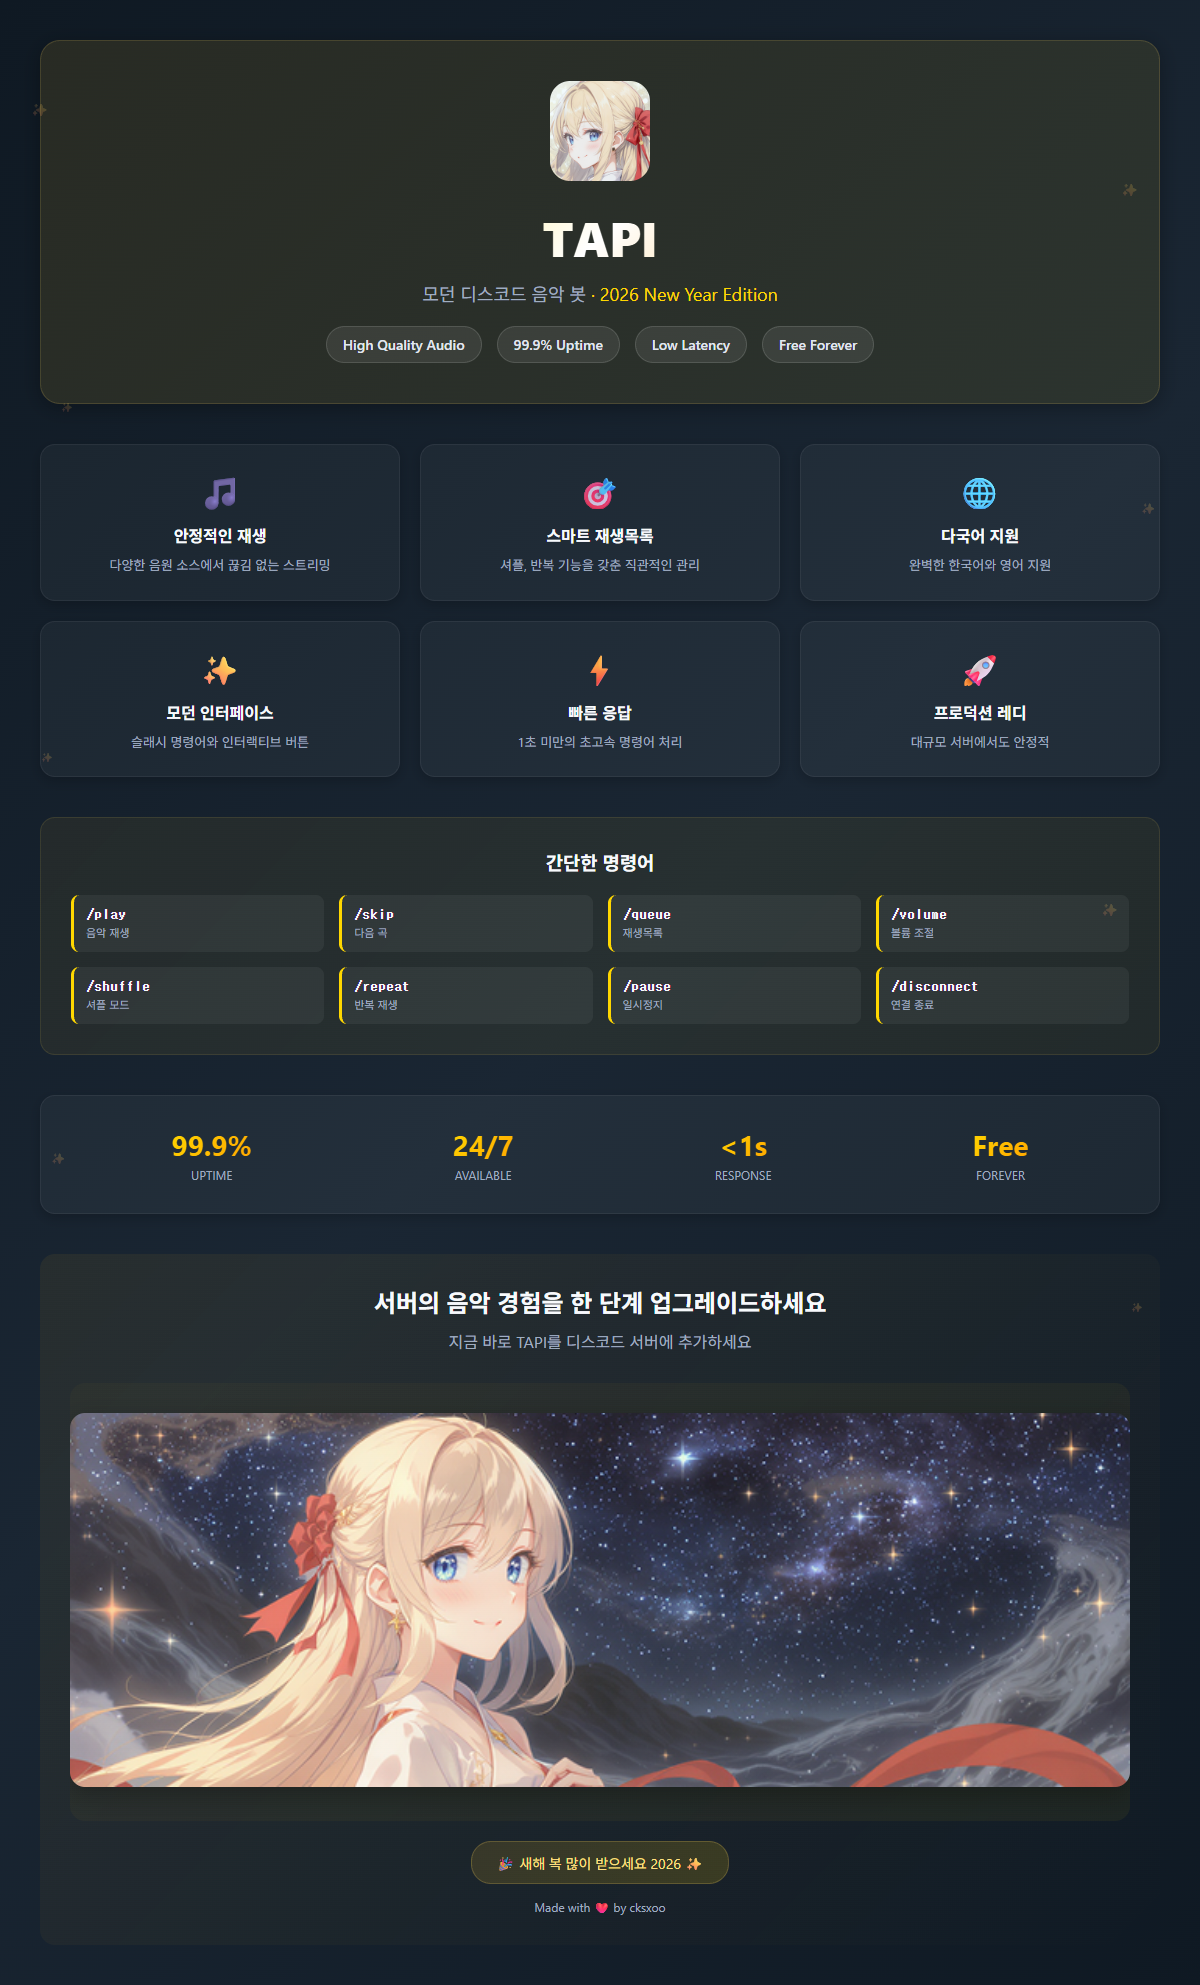
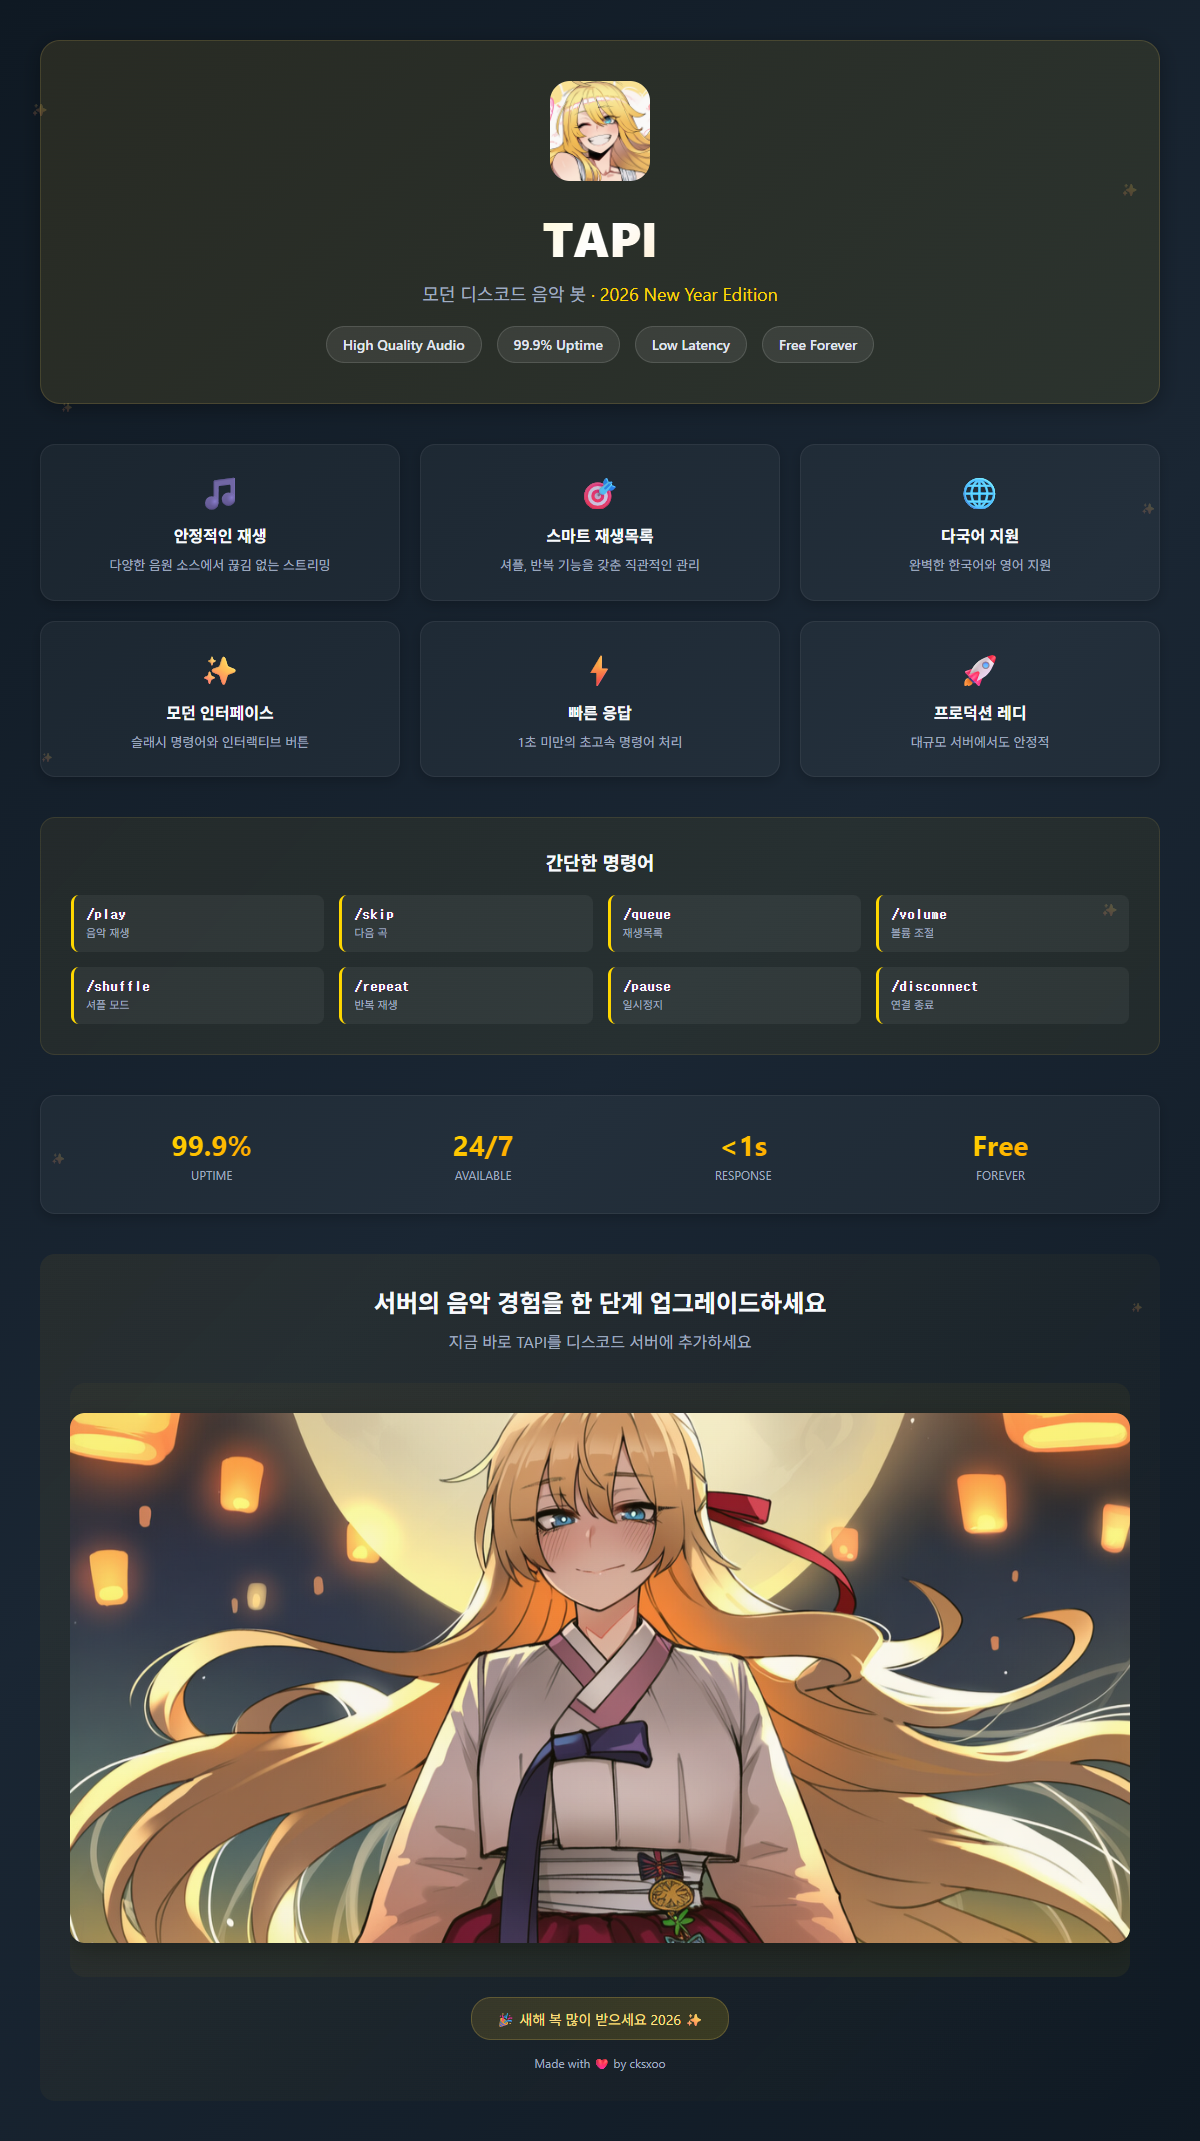
Update image paths for 2026 New Year edition in English and Korean bot descriptions

diff --git a/docs/descriptions/bot_description_for_image_kr.html b/docs/descriptions/bot_description_for_image_kr.html
@@ -277,7 +277,7 @@
     <span class="sparkle sp8">✨</span>
 
     <div class="header">
-        <img src="https://raw.githubusercontent.com/cksxoo/tapi/main/docs/2026_logo.png" class="logo">
+        <img src="https://raw.githubusercontent.com/cksxoo/tapi/main/docs/themes/2026-main/logo.png" class="logo">
         <h1 class="title">TAPI</h1>
         <p class="subtitle">모던 디스코드 음악 봇 <span class="accent">· 2026 New Year Edition</span></p>
         <div class="badges">
@@ -382,7 +382,7 @@
         <div class="footer-title">서버의 음악 경험을 한 단계 업그레이드하세요</div>
         <div class="footer-subtitle">지금 바로 TAPI를 디스코드 서버에 추가하세요</div>
         <div class="banner-wrapper">
-            <img src="https://raw.githubusercontent.com/cksxoo/tapi/main/docs/2026_banner.png" class="banner">
+            <img src="https://raw.githubusercontent.com/cksxoo/tapi/main/docs/themes/2026-main/banner.png" class="banner">
             <div class="banner-overlay"></div>
         </div>
         <div class="holiday-msg">

diff --git a/docs/descriptions/bot_description_for_image_en.html b/docs/descriptions/bot_description_for_image_en.html
@@ -277,7 +277,7 @@
     <span class="sparkle sp8">✨</span>
 
     <div class="header">
-        <img src="https://raw.githubusercontent.com/cksxoo/tapi/main/docs/2026_logo.png" class="logo">
+        <img src="https://raw.githubusercontent.com/cksxoo/tapi/main/docs/themes/2026-main/logo.png" class="logo">
         <h1 class="title">TAPI</h1>
         <p class="subtitle">Modern Discord Music Bot <span class="accent">· 2026 New Year Edition</span></p>
         <div class="badges">
@@ -382,7 +382,7 @@
         <div class="footer-title">Ready to elevate your server's music experience?</div>
         <div class="footer-subtitle">Add TAPI to your Discord server today</div>
         <div class="banner-wrapper">
-            <img src="https://raw.githubusercontent.com/cksxoo/tapi/main/docs/2026_banner.png" class="banner">
+            <img src="https://raw.githubusercontent.com/cksxoo/tapi/main/docs/themes/2026-main/banner.png" class="banner">
             <div class="banner-overlay"></div>
         </div>
         <div class="holiday-msg">
